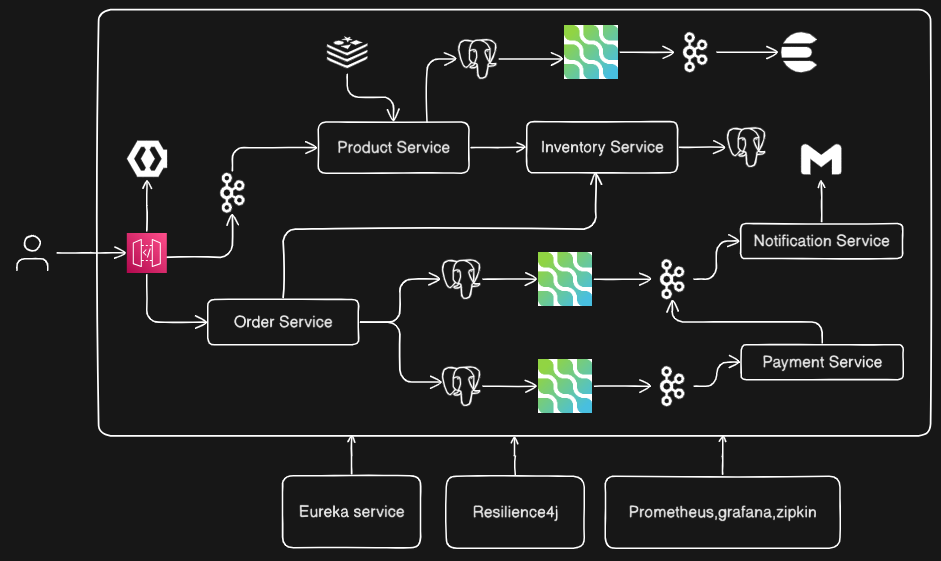
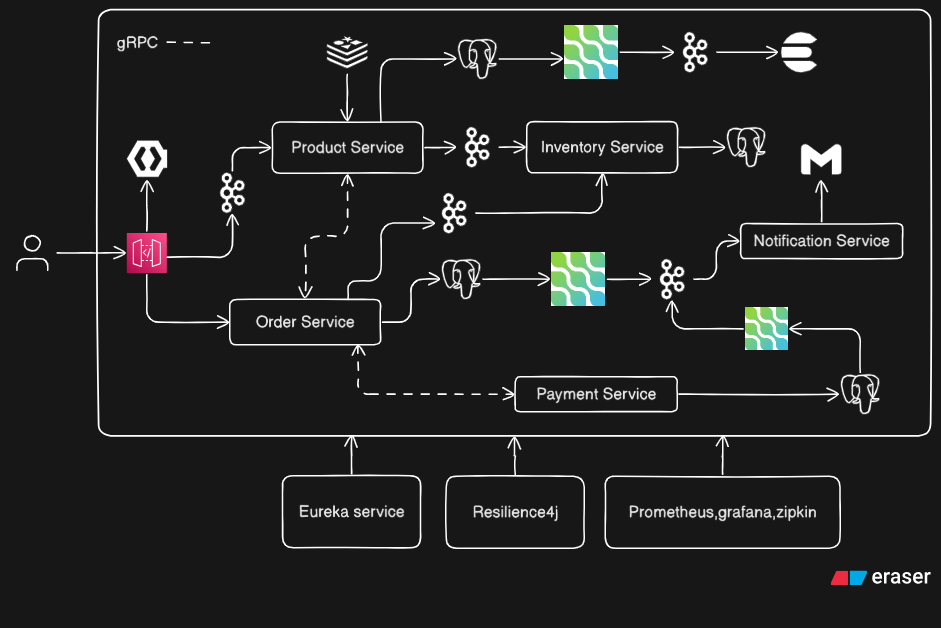
debezium implementation for order placement

diff --git a/notification-service/src/main/java/com/microservices/service/OrderEventConsumer.java b/notification-service/src/main/java/com/microservices/service/OrderEventConsumer.java
@@ -1,0 +1,49 @@
+package com.microservices.service;
+
+
+import com.fasterxml.jackson.databind.JsonNode;
+import com.fasterxml.jackson.databind.ObjectMapper;
+import com.microservices.model.dto.OrderCdcEvent;
+import lombok.RequiredArgsConstructor;
+import lombok.extern.slf4j.Slf4j;
+import org.springframework.kafka.annotation.KafkaListener;
+import org.springframework.stereotype.Component;
+
+@Component
+@RequiredArgsConstructor
+@Slf4j
+public class OrderEventConsumer {
+
+    private final ObjectMapper objectMapper;
+
+    @KafkaListener(
+            topics = "order_entity",
+            groupId = "notification-service"
+    )
+    public void consume(String message) throws Exception {
+
+        JsonNode node = objectMapper.readTree(message);
+
+        if (node.has("payload")) {
+            node = node.get("payload");
+        }
+
+        OrderCdcEvent event =
+                objectMapper.treeToValue(node, OrderCdcEvent.class);
+
+        handleEvent(event);
+    }
+
+    private void handleEvent(OrderCdcEvent event) {
+
+        //New Order Created
+        if ("c".equals(event.get__op())) {
+            log.info("notification send {} ",event);
+        }
+
+        //Payment Completed
+        if ("u".equals(event.get__op()) && Boolean.TRUE.equals(event.getPayment_status())) {
+            log.info("notification send {} ",event);
+        }
+    }
+}

diff --git a/notification-service/src/main/java/com/microservices/utils/utils.java b/notification-service/src/main/java/com/microservices/utils/utils.java
@@ -1,0 +1,18 @@
+package com.microservices.utils;
+
+import org.springframework.stereotype.Component;
+
+import java.math.BigDecimal;
+import java.math.BigInteger;
+import java.util.Base64;
+
+@Component
+public class utils {
+
+    public static BigDecimal decodeDecimal(String base64, int scale) {
+        byte[] bytes = Base64.getDecoder().decode(base64);
+        BigInteger bigInt = new BigInteger(bytes);
+        return new BigDecimal(bigInt, scale);
+    }
+
+}

diff --git a/notification-service/src/main/java/com/microservices/model/dto/OrderCdcEvent.java b/notification-service/src/main/java/com/microservices/model/dto/OrderCdcEvent.java
@@ -1,0 +1,17 @@
+package com.microservices.model.dto;
+
+import lombok.Data;
+
+@Data
+public class OrderCdcEvent {
+
+    private Integer order_id;
+    private Long created_at;
+    private String payment_amount;   // base64 decimal
+    private Boolean payment_status;
+    private Integer product_id;
+
+    private String __op;
+    private String __table;
+    private Long __ts_ms;
+}
